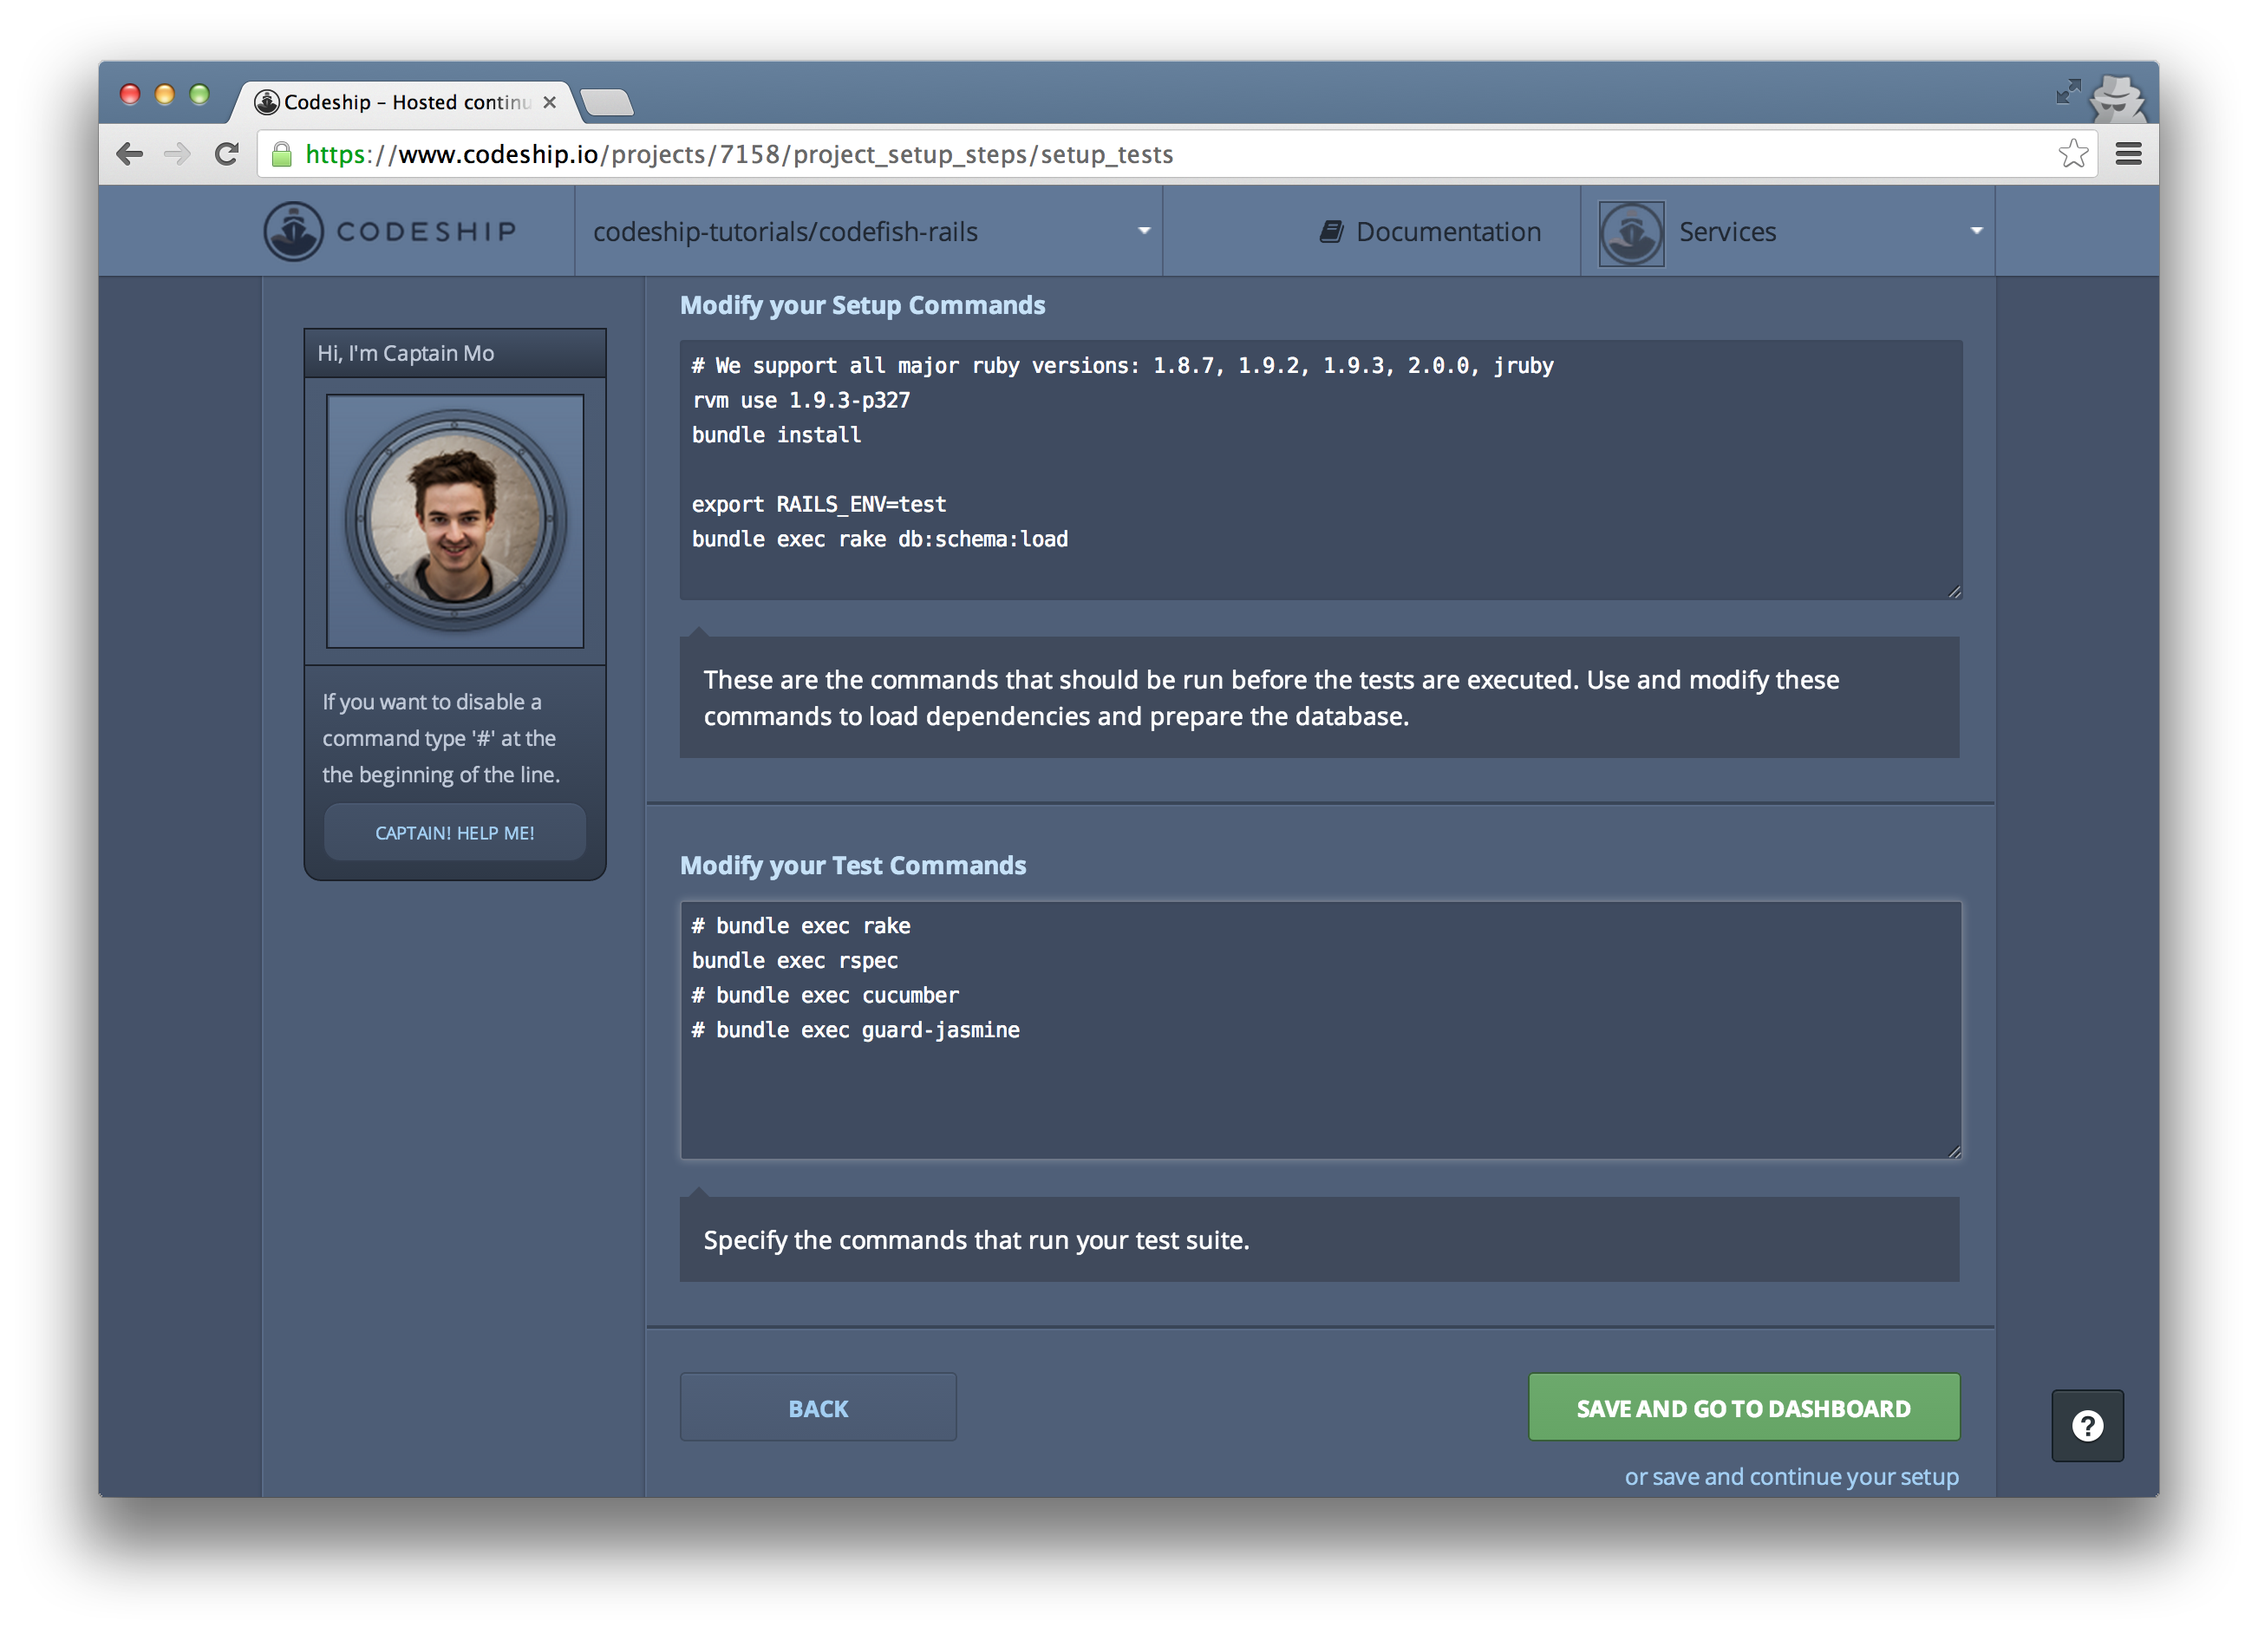
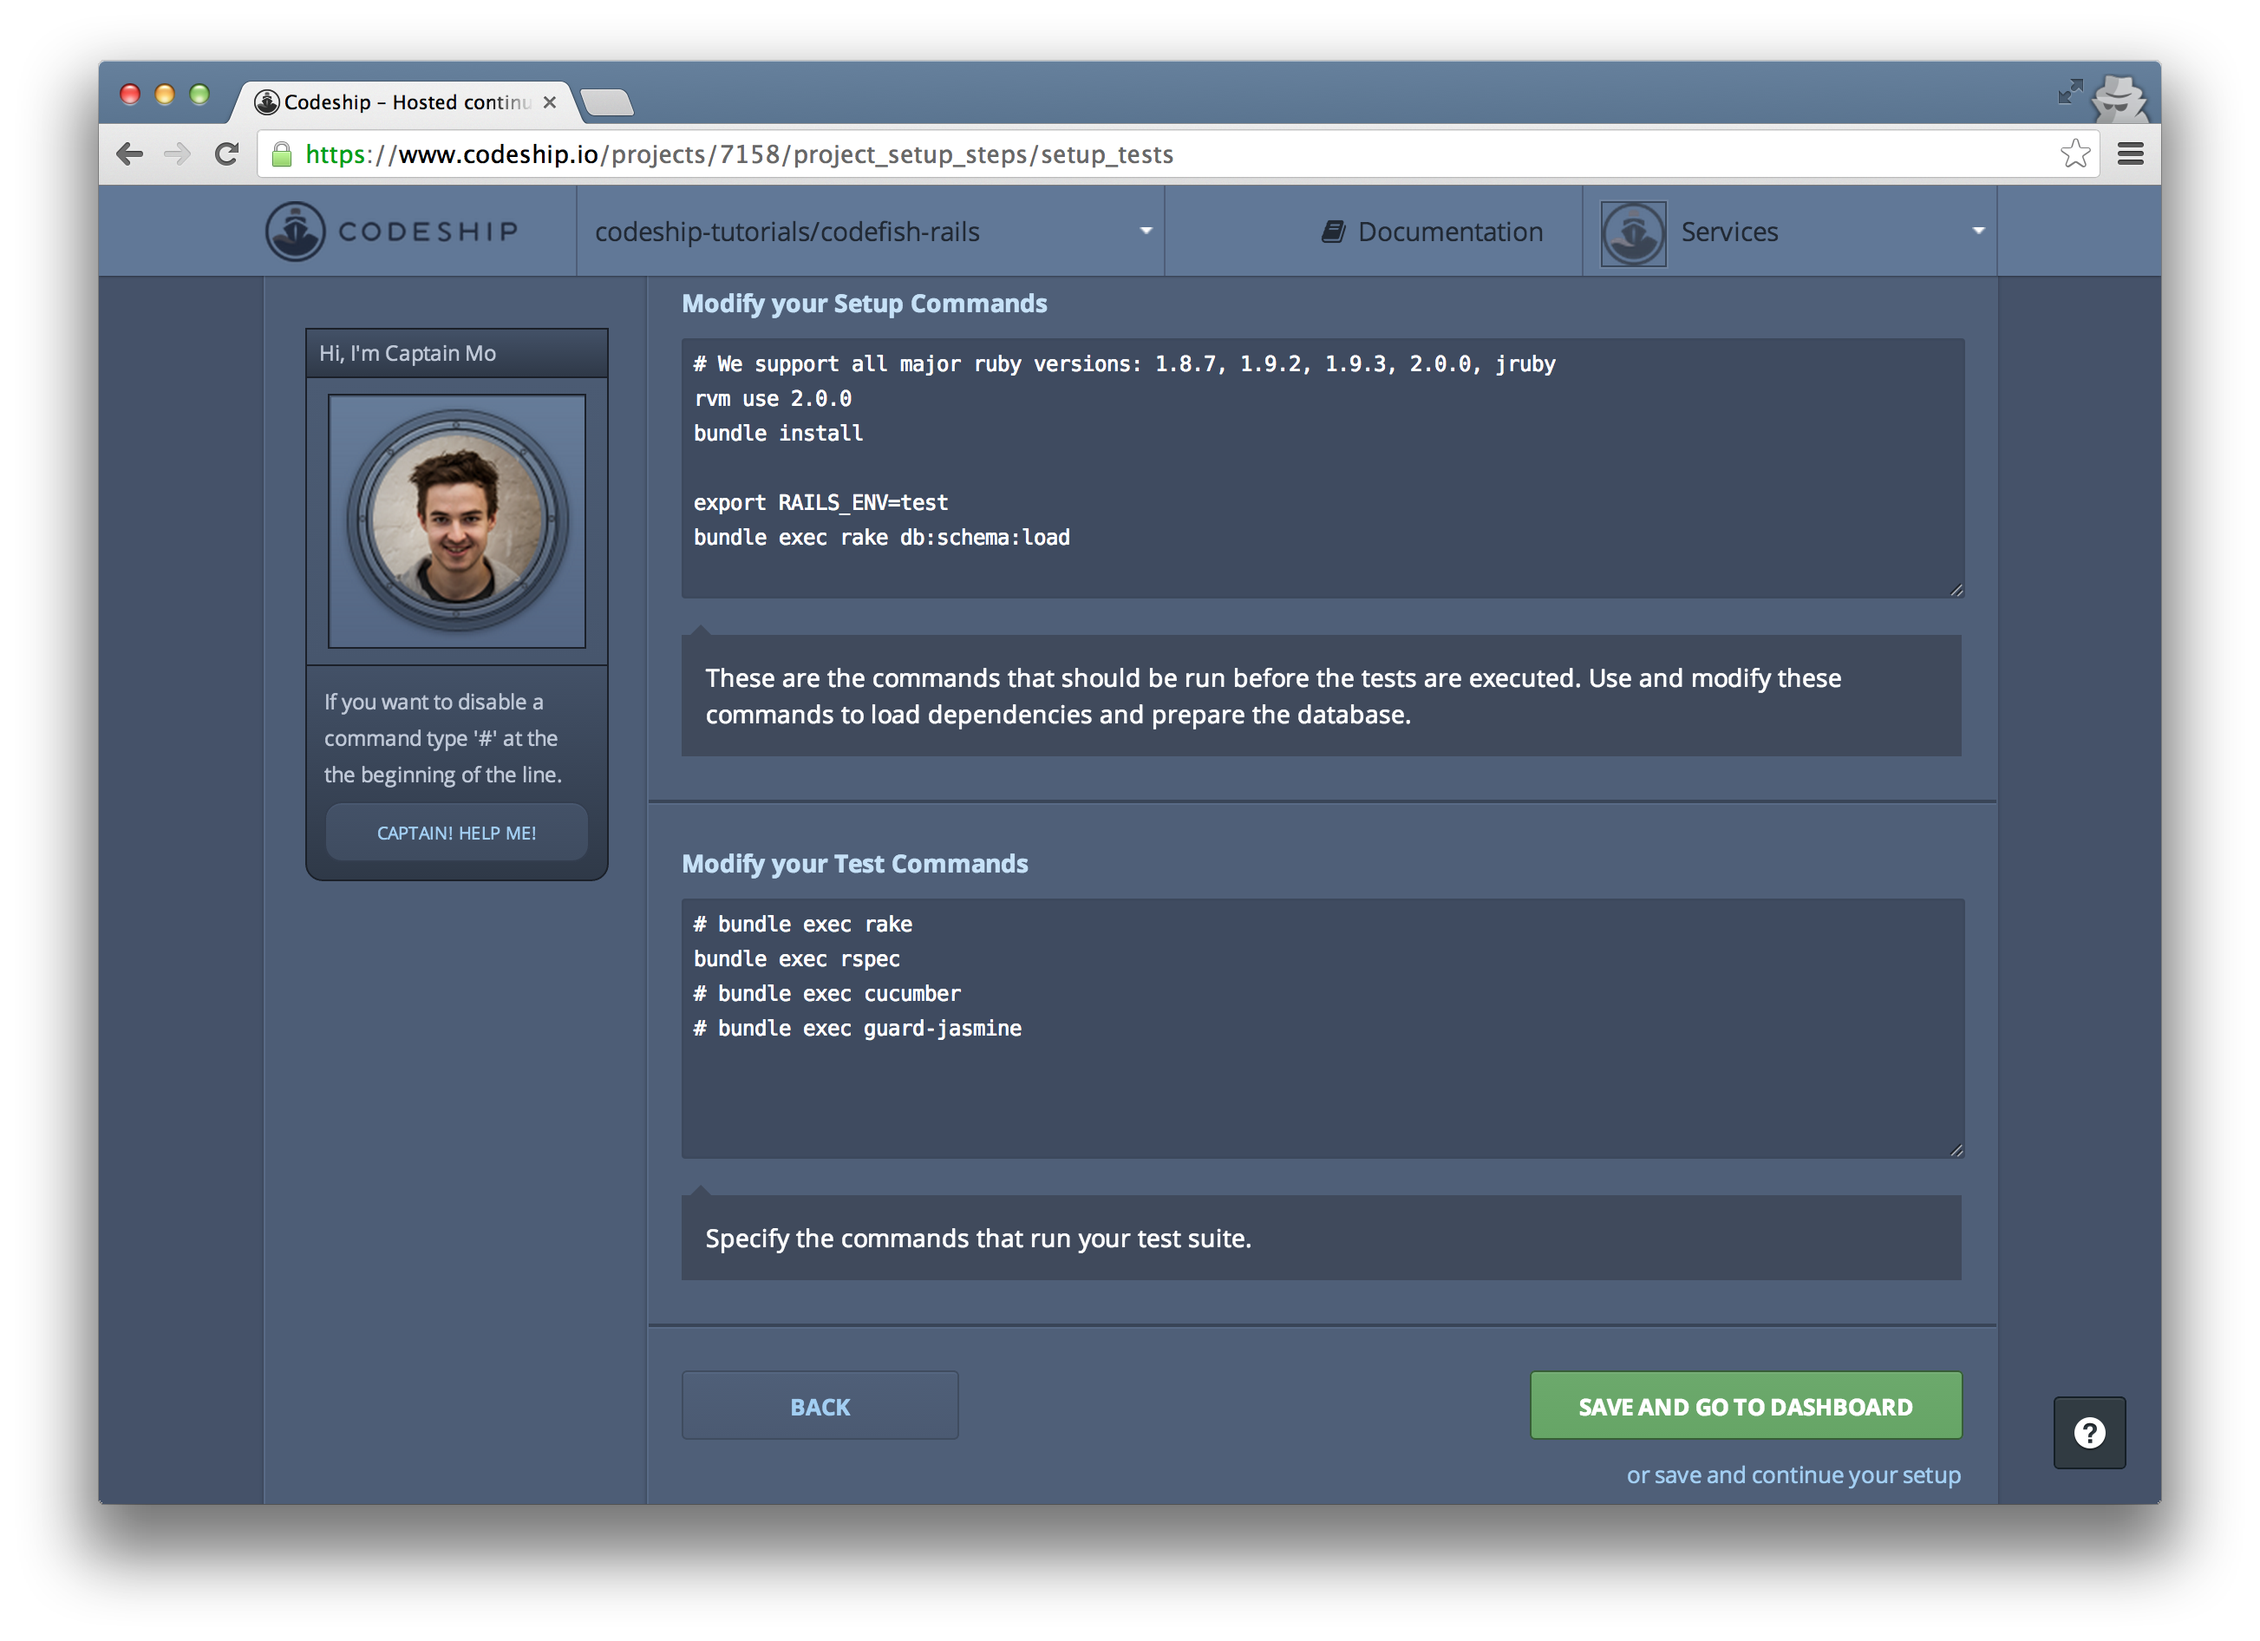
Changed details in storyboard.

diff --git a/rails/github/heroku/storyboard.md b/rails/github/heroku/storyboard.md
@@ -11,17 +11,17 @@ We're gonna deploy this application to Heroku using the Codeship.
 
 ![Codeship landingpage](../../../screenshots/codeship-landingpage.png)
 
-Let's sign in with GitHub:
+Let's sign in to the Codeship with GitHub:
 
 ![GitHub OAuth](../screenshots/oauth.png)
 
-Codeship needs access to our GitHub repositories to be able to set them up. Let's allow access.
+The Codeship needs access to our GitHub repositories to be able to set them up. Let's allow access.
 
-We're back at the Codeship. Now let's create our project.
+We're back at the Codeship. Now let's create our first project.
 
 ![Codeship welcome screen](../../../screenshots/codeship-welcome.png)
 
-We select GitHub as our repository provider.
+I select GitHub as our repository provider.
 
 ![Repo provider selection GitHub](../screenshots/repo-provider-selection.png)
 
@@ -33,11 +33,15 @@ I search for my repo "codefish-rails" and select it.
 
 ![Repo selection GitHub filtered](../screenshots/repo-selection-filtered.png)
 
-Now we can set up our test commands:
+Now our repository is connected and we can set up our test commands:
 
 ![Codeship welcome screen](../../../screenshots/codeship-technology.png)
 
-We select "Ruby on Rails" as our framework. Now the setup commands and the test commands are already prefilled. Let's uncomment the test command `bundle exec rspec` to run our RSpec examples on every build.
+We select "Ruby on Rails" as our framework. This prefills the setup commands and the test commands for us.
+
+By default Ruby 1.9.3 is loaded, but I'd like to use Ruby 2.0.0, so I just change the `rvm use` command.
+
+Let's uncomment the test command `bundle exec rspec` to run our RSpec examples on every build.
 
 ![Rails test commands](../screenshots/test-commands.png)
 
@@ -83,17 +87,17 @@ We've already pushed to our repository, watched our build log and got a green bu
 
 ![Codeship build without road to success](../screenshots/build-without-road-to-success.png)
 
-Now let's deploy our application to Heroku. We go into our project settings
+Now let's deploy our application to Heroku. We go to our project settings
 
 ![Codeship go to project settings](../screenshots/go-to-project-settings.png)
 
 ![Codeship project settings](../screenshots/project-settings.png)
 
-and then to the "Deployment" page.
+and then to the "Deployment" section.
 
 ![Codeship deployment settings](../screenshots/deployment-settings.png)
 
-We select "Heroku" as our Deployment provider.
+We want to deploy to "Heroku".
 
 ![New heroku deployment](screenshots/new-heroku-deployment.png)
 
@@ -125,7 +129,7 @@ Now let's save our deployment configuration.
 
 ![Saved Heroku deployment](screenshots/saved-heroku-deployment.png)
 
-The Codeship will deploy our application to Heroku the next time we push a change to our GitHub repository. Let's add a paragraph "And I set it up in 2 minutes" to our template.
+The Codeship will deploy our application to Heroku the next time we push to our GitHub repository. Let's add a paragraph "And I set it up in 2 minutes" to our template.
 
 ![Added paragraph](../screenshots/added-paragraph.png)
 
@@ -137,15 +141,15 @@ and immediately another build starts running on the Codeship.
 
 ![Deploy build started](../screenshots/deploy-build-started.png)
 
-After the commands that already run in the first build, our application is deployed to Heroku
+After the commands that already ran in our first build, our application is deployed to Heroku
 
 ![Build Deployment](screenshots/build-deployment.png)
 
-After about 2 minutes our application was deployed successfully.
+And about 2 minutes later our application is successfully deployed.
 
 ![Build Deployment Complete](screenshots/build-deployment-complete.png)
 
-We can open http://codefish-rails.herokuapp.com/ in our browser and our application appears.
+When we open http://codefish-rails.herokuapp.com/ now, our deployed application appears.
 
 ![Deployed Application](screenshots/deployed-application.png)
 
